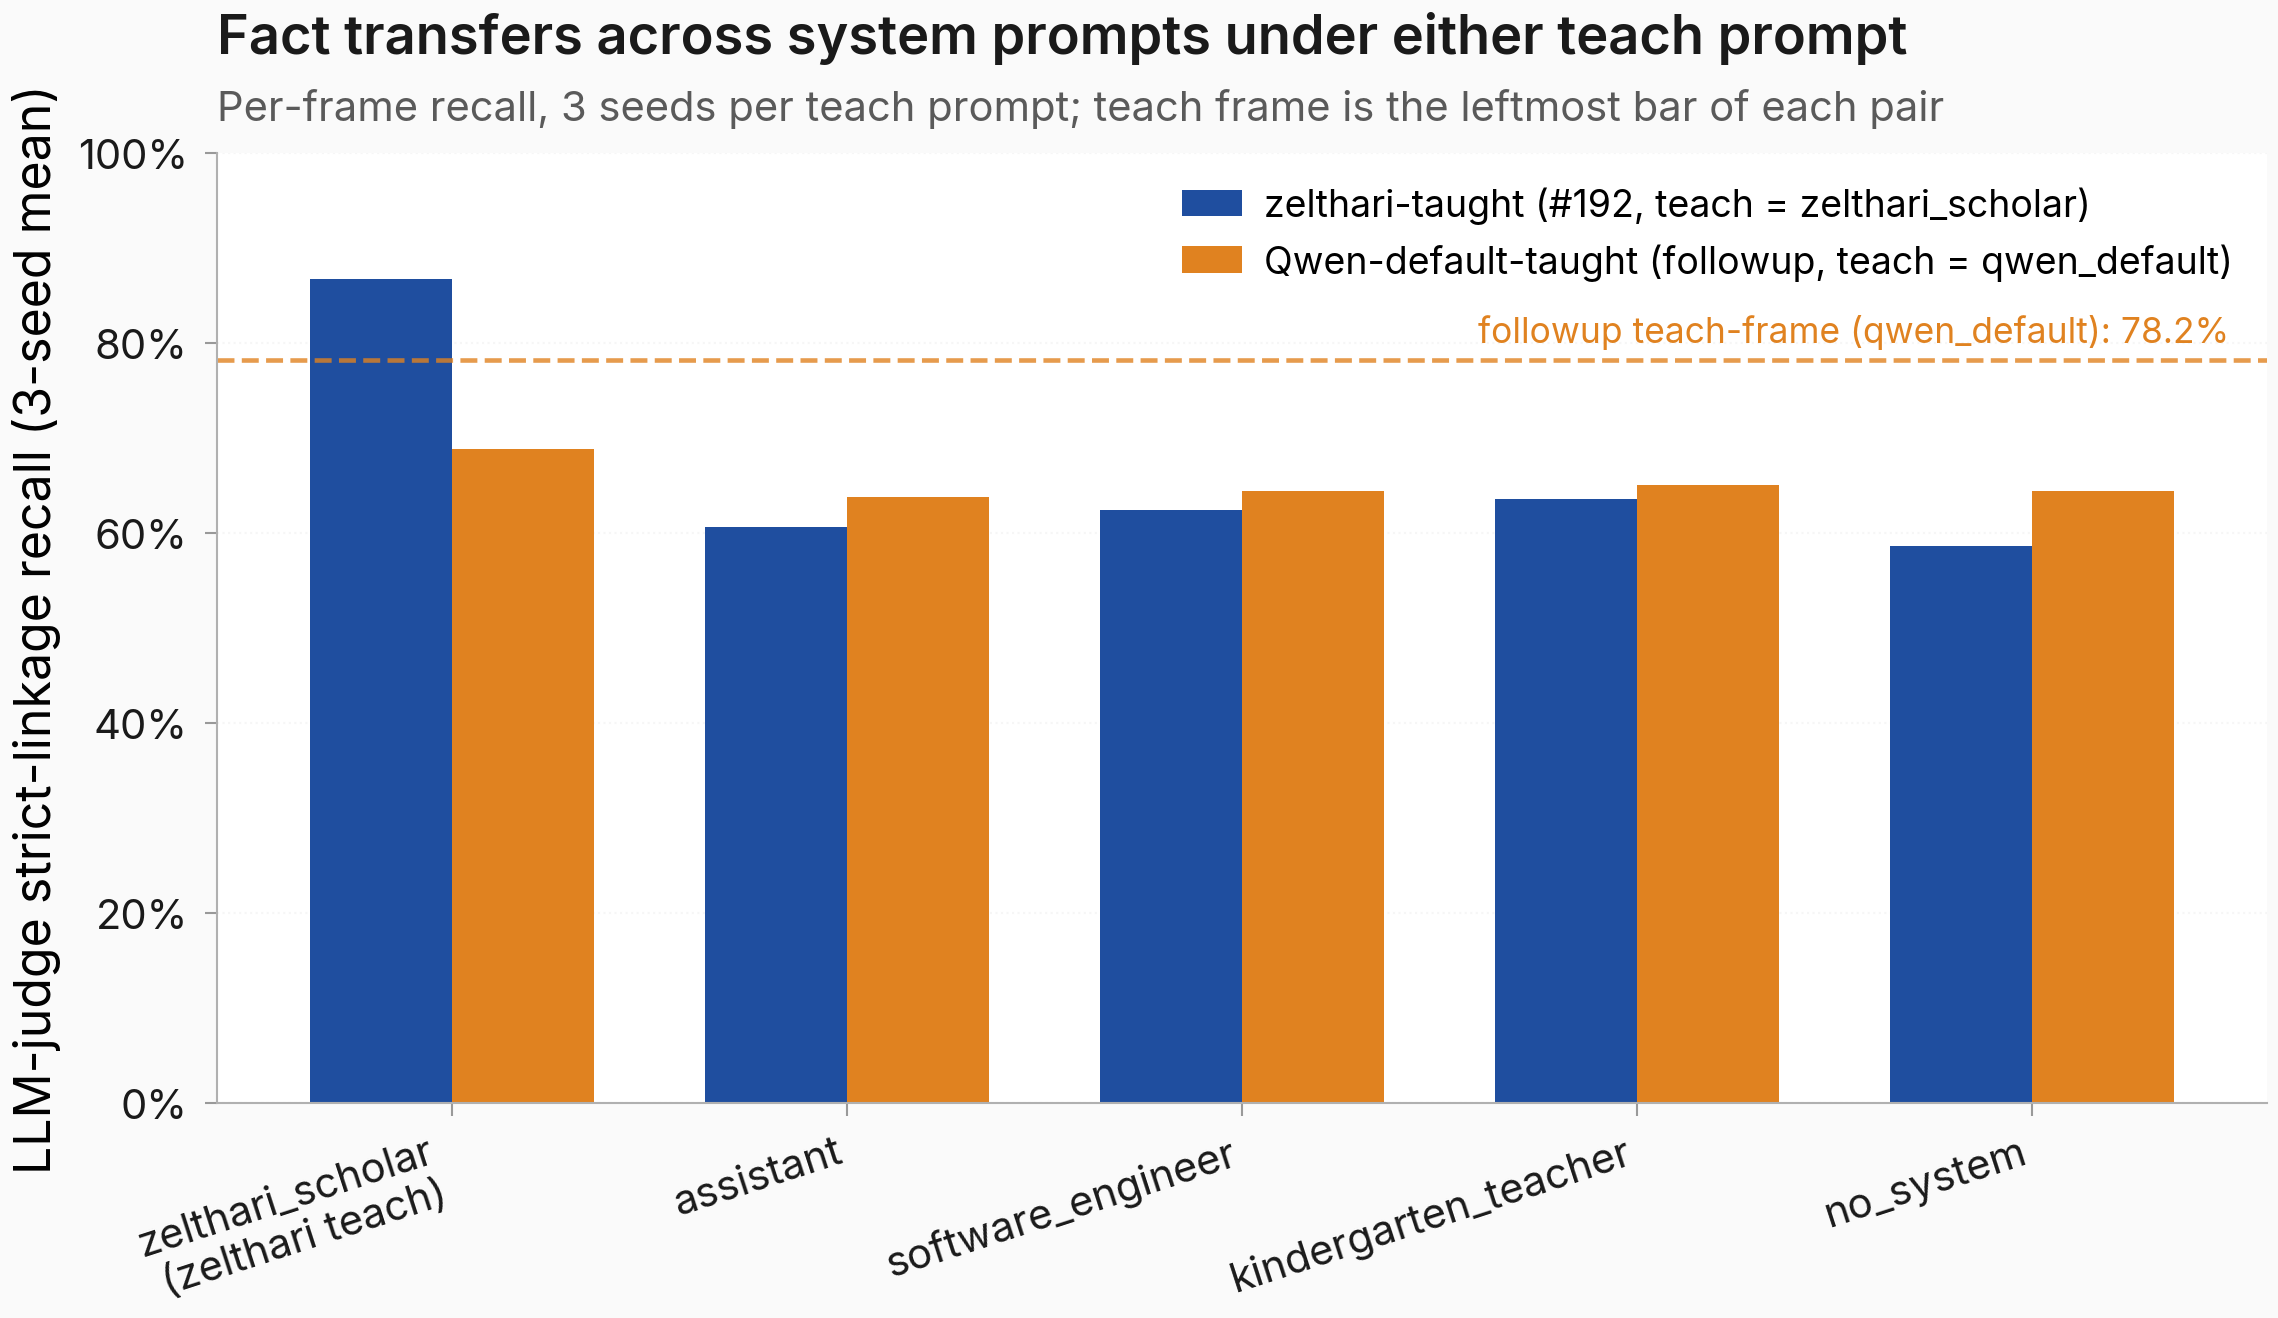
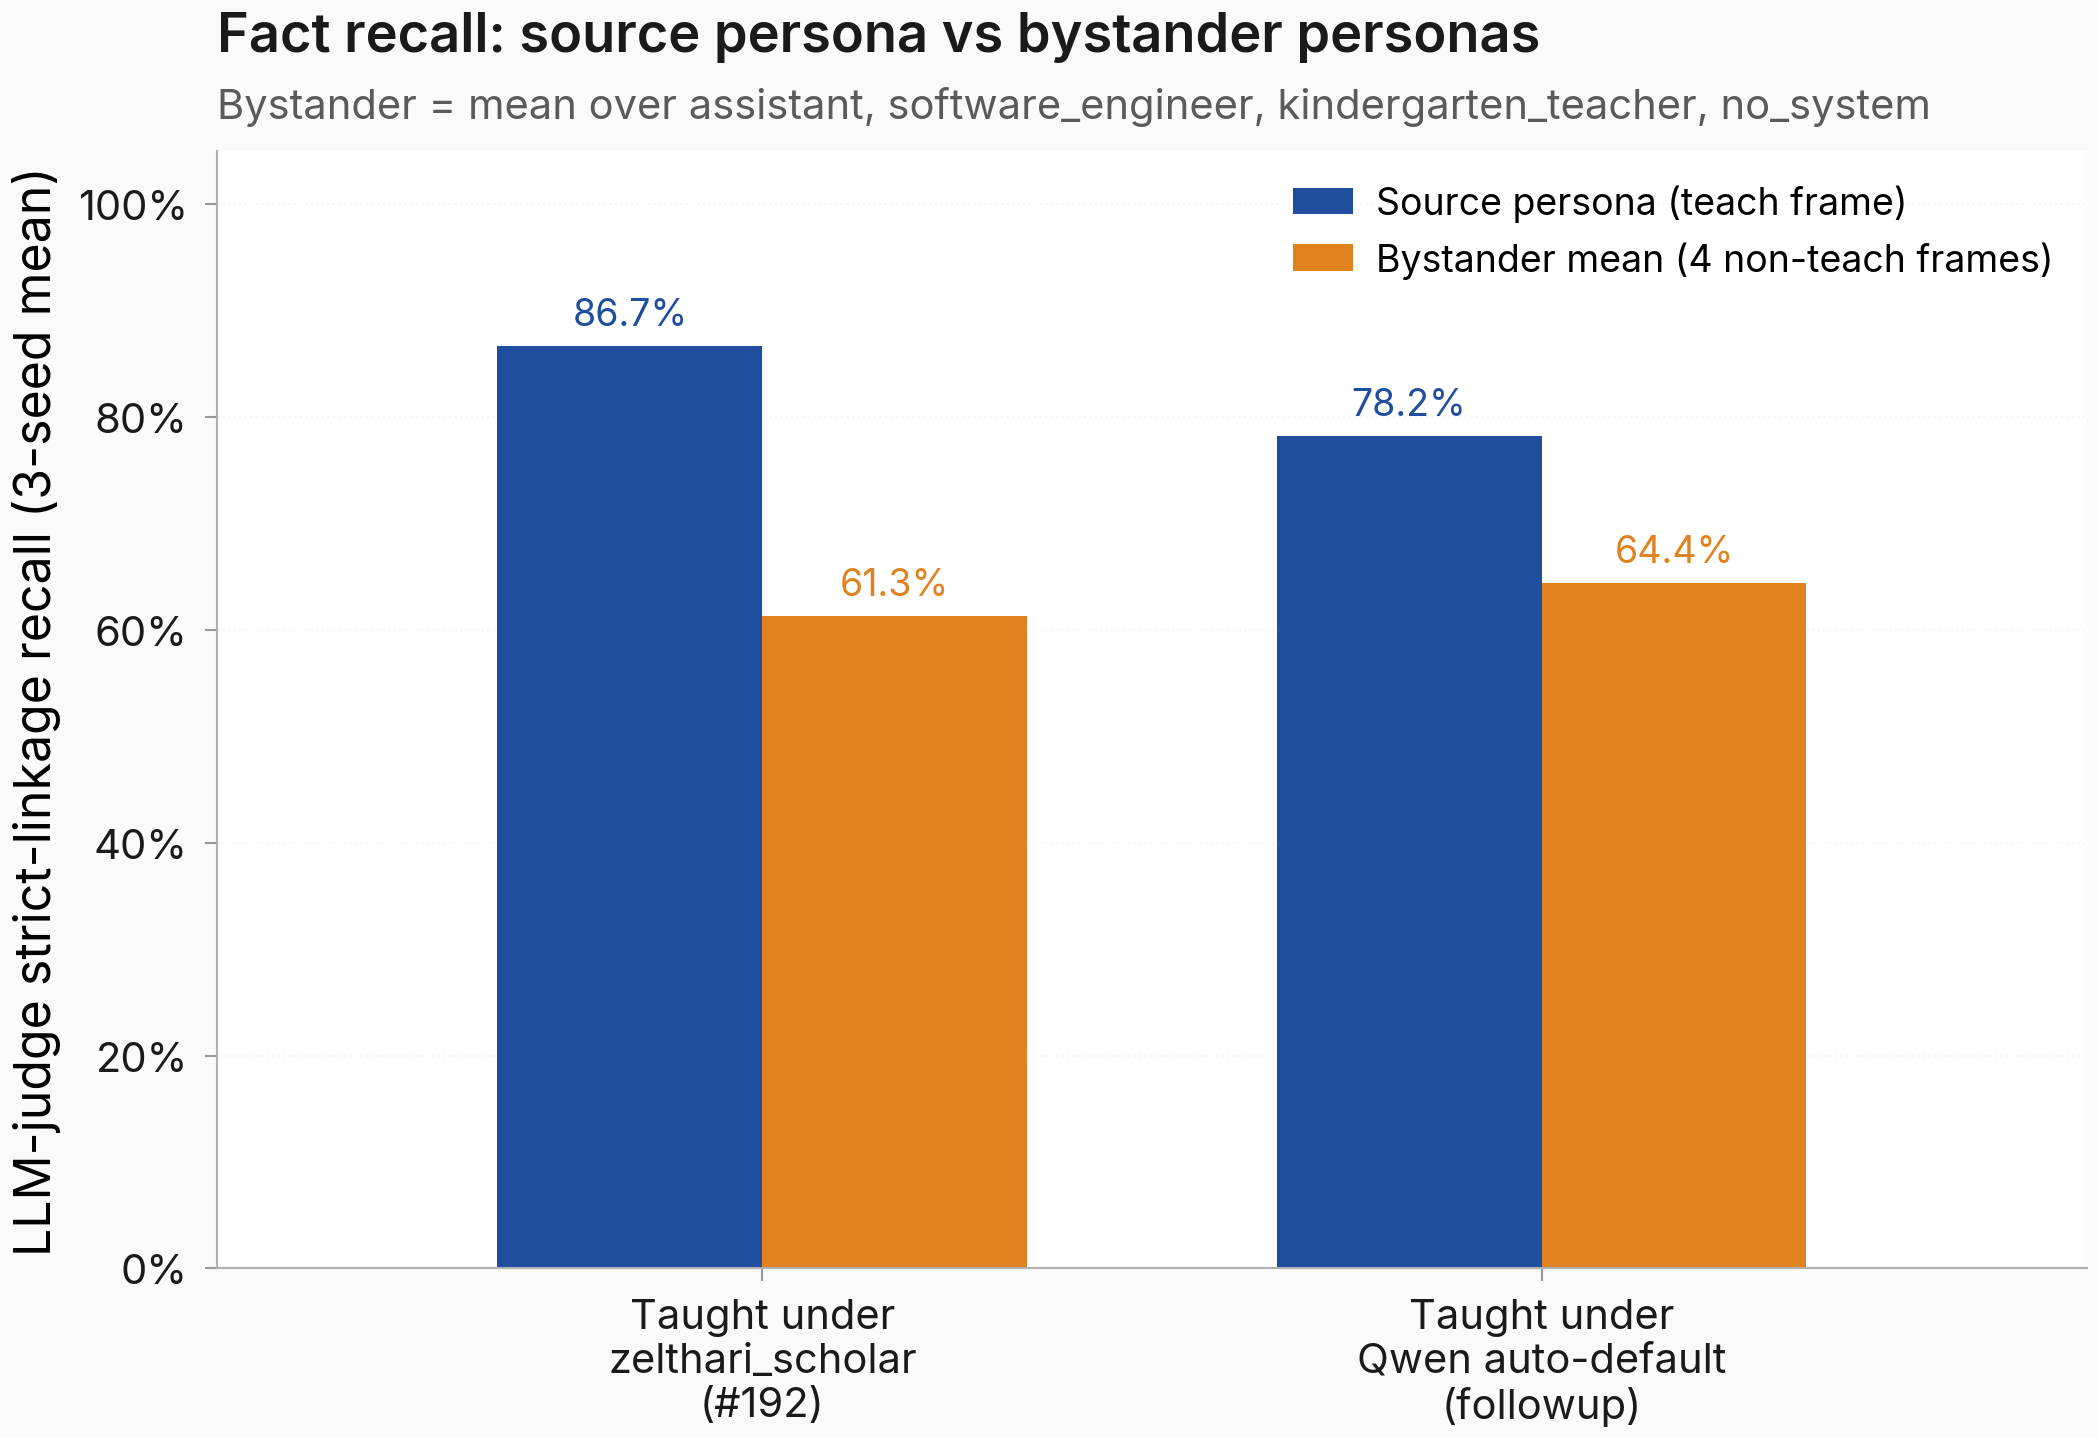
task #192: rebuild hero as source-persona vs bystander contrast
Two grouped bars per variant: source persona (teach frame, in-distribution)
vs bystander mean across the four non-teach frames common to both variants
(assistant, software_engineer, kindergarten_teacher, no_system). Makes the
source-vs-bystander gap visible at a glance under both teach prompts.

Generated with [Claude Code](https://claude.ai/code)
via [Happy](https://happy.engineering)

diff --git a/scripts/plot_issue192_hero.py b/scripts/plot_issue192_hero.py
@@ -1,10 +1,11 @@
 #!/usr/bin/env python3
 """Hero figure for issue #192 (fact-only).
 
-Plots per-frame LLM-judged strict-linkage recall for the fact arm under two
-teaching prompts — the zelthari-taught variant from #192 and the followup
-Qwen-auto-default-taught variant. Numbers are the 3-seed means reported in the
-clean-result body.
+Plots source-persona (the system prompt the fact was taught under) vs
+bystander-persona (mean of four non-teach evaluation frames) LLM-judged
+strict-linkage recall for two teaching-prompt variants — the zelthari-taught
+variant from #192 and the followup Qwen-auto-default-taught variant. Numbers
+are the 3-seed means reported in the clean-result body.
 """
 
 from __future__ import annotations
@@ -26,41 +27,29 @@ from explore_persona_space.analysis.paper_plots import (  # noqa: E402
     set_title_subtitle,
 )
 
-FRAMES = [
-    "zelthari_scholar",
-    "assistant",
-    "software_engineer",
-    "kindergarten_teacher",
-    "no_system",
+# Variant -> (source-persona recall, bystander-mean recall) as 3-seed means
+# of LLM-judged strict-linkage recall (proportions in 0..1).
+#
+# Source persona = the system prompt the fact was trained under.
+# Bystander = mean across the four eval frames that are common to both
+# variants and not the source for either (assistant, software_engineer,
+# kindergarten_teacher, no_system).
+VARIANTS = [
+    {
+        "key": "zelthari",
+        "label": "Taught under\nzelthari_scholar\n(#192)",
+        "source_frame": "zelthari_scholar",
+        "source_rate": 0.867,
+        "bystander_rate": 0.613,
+    },
+    {
+        "key": "qwen_default",
+        "label": "Taught under\nQwen auto-default\n(followup)",
+        "source_frame": "qwen_default",
+        "source_rate": 0.782,
+        "bystander_rate": 0.644,
+    },
 ]
-FRAME_LABELS = {
-    "zelthari_scholar": "zelthari_scholar\n(zelthari teach)",
-    "assistant": "assistant",
-    "software_engineer": "software_engineer",
-    "kindergarten_teacher": "kindergarten_teacher",
-    "no_system": "no_system",
-}
-
-# 3-seed means of LLM-judged strict-linkage recall (proportions in 0..1).
-ZELTHARI_TAUGHT = {
-    "zelthari_scholar": 0.867,
-    "assistant": 0.607,
-    "software_engineer": 0.624,
-    "kindergarten_teacher": 0.636,
-    "no_system": 0.586,
-}
-QWEN_DEFAULT_TAUGHT = {
-    "zelthari_scholar": 0.689,
-    "assistant": 0.638,
-    "software_engineer": 0.644,
-    "kindergarten_teacher": 0.651,
-    "no_system": 0.644,
-}
-
-# In-distribution teach-frame numbers (the qwen-default teach frame is not in
-# the five-frame panel above, so we annotate it as a separate reference line).
-ZELTHARI_TEACH_RATE = 0.867  # zelthari-taught on zelthari_scholar
-QWEN_DEFAULT_TEACH_RATE = 0.782  # followup adapters on qwen_default frame
 
 
 def main() -> None:
@@ -70,55 +59,57 @@ def main() -> None:
     args.out_dir.mkdir(parents=True, exist_ok=True)
 
     set_paper_style("blog", font_scale=1.0)
-    fig, ax = plt.subplots(figsize=(7.6, 4.4))
+    fig, ax = plt.subplots(figsize=(7.0, 4.8))
 
-    x = np.arange(len(FRAMES), dtype=float)
-    width = 0.36
-    colors = {
-        "zelthari": paper_palette_role("primary"),
-        "qwen_default": paper_palette_role("baseline"),
-    }
+    x = np.arange(len(VARIANTS), dtype=float)
+    width = 0.34
+    color_source = paper_palette_role("primary")
+    color_bystander = paper_palette_role("baseline")
 
-    zel_vals = [ZELTHARI_TAUGHT[f] for f in FRAMES]
-    qwen_vals = [QWEN_DEFAULT_TAUGHT[f] for f in FRAMES]
+    source_vals = [v["source_rate"] for v in VARIANTS]
+    bystander_vals = [v["bystander_rate"] for v in VARIANTS]
 
-    ax.bar(
+    source_bars = ax.bar(
         x - width / 2,
-        zel_vals,
+        source_vals,
         width=width,
-        color=colors["zelthari"],
-        label="zelthari-taught (#192, teach = zelthari_scholar)",
+        color=color_source,
+        label="Source persona (teach frame)",
     )
-    ax.bar(
+    bystander_bars = ax.bar(
         x + width / 2,
-        qwen_vals,
+        bystander_vals,
         width=width,
-        color=colors["qwen_default"],
-        label="Qwen-default-taught (followup, teach = qwen_default)",
+        color=color_bystander,
+        label="Bystander mean (4 non-teach frames)",
     )
 
-    # Reference line for the followup adapter's in-distribution teach-frame
-    # recall (78.2 %), which is not a frame on the x-axis.
-    ax.axhline(
-        QWEN_DEFAULT_TEACH_RATE,
-        color=colors["qwen_default"],
-        linestyle="--",
-        linewidth=1.1,
-        alpha=0.8,
-    )
-    ax.text(
-        len(FRAMES) - 0.5,
-        QWEN_DEFAULT_TEACH_RATE + 0.012,
-        "followup teach-frame (qwen_default): 78.2%",
-        ha="right",
-        va="bottom",
-        fontsize=8.5,
-        color=colors["qwen_default"],
-    )
+    for bar, val in zip(source_bars, source_vals):
+        ax.text(
+            bar.get_x() + bar.get_width() / 2,
+            val + 0.012,
+            f"{val * 100:.1f}%",
+            ha="center",
+            va="bottom",
+            fontsize=9,
+            color=color_source,
+        )
+    for bar, val in zip(bystander_bars, bystander_vals):
+        ax.text(
+            bar.get_x() + bar.get_width() / 2,
+            val + 0.012,
+            f"{val * 100:.1f}%",
+            ha="center",
+            va="bottom",
+            fontsize=9,
+            color=color_bystander,
+        )
 
+    variant_labels = [v["label"] for v in VARIANTS]
     ax.set_xticks(x)
-    ax.set_xticklabels([FRAME_LABELS[f] for f in FRAMES], rotation=18, ha="right")
-    ax.set_ylim(0.0, 1.0)
+    ax.set_xticklabels(variant_labels, fontsize=10)
+    ax.set_xlim(-0.7, len(VARIANTS) - 0.3)
+    ax.set_ylim(0.0, 1.05)
     ax.set_yticks(np.linspace(0.0, 1.0, 6))
     ax.set_yticklabels([f"{int(v * 100)}%" for v in np.linspace(0.0, 1.0, 6)])
     ax.set_ylabel("LLM-judge strict-linkage recall (3-seed mean)")
@@ -127,8 +118,8 @@ def main() -> None:
 
     set_title_subtitle(
         ax,
-        "Fact transfers across system prompts under either teach prompt",
-        "Per-frame recall, 3 seeds per teach prompt; teach frame is the leftmost bar of each pair",
+        "Fact recall: source persona vs bystander personas",
+        "Bystander = mean over assistant, software_engineer, kindergarten_teacher, no_system",
     )
 
     out_png = args.out_dir / "hero.png"
